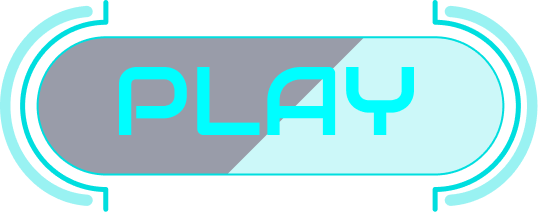
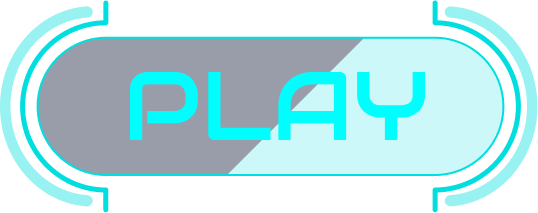
initial menu over and clicked states

diff --git a/game/containersMenu/containerInitial.ts b/game/containersMenu/containerInitial.ts
@@ -16,17 +16,43 @@ class containerInitial extends Phaser.GameObjects.Container {
         super(scene, config.x, config.y)
 
         const offsetY = 100
-        this.playButton = scene.add.image(this.width/2, this.height/2 + offsetY, "playButton")
-        this.playButton.setInteractive().on('pointerdown', () => {
+        this.playButton = scene.add.image(this.width / 2, this.height / 2 + offsetY, "playButton");
+        this.playButton.setInteractive();
+        this.playButton.on(Phaser.Input.Events.GAMEOBJECT_POINTER_OVER, () => {
+            this.playButton.setTexture('playButtonHover');
+        });
+        this.playButton.on(Phaser.Input.Events.GAMEOBJECT_POINTER_OUT, () => {
+            this.playButton.setTexture('playButton');
+        });
+        this.playButton.on('pointerdown', () => {
             if(config.panToPlay){
+                this.playButton.setTexture('playButtonPressed')
                 this.scene.cameras.main.pan(config.panToPlay.x, config.panToPlay.y, 1000, 'Expo', true)
             }
         })
+        this.playButton.on('pointerup', () => {
+            this.playButton.setTexture('playButtonHover')
+        })
+
         console.log(this.playButton.width, this.playButton.height, "PLAY BUTTON")
         this.creditsButton = scene.add.image(0, 0, "creditsButton")
         this.creditsButton.setPosition(this.width/2, this.playButton.y + this.creditsButton.height + this.playButton.height/2 + offsetY)
-        this.creditsButton.setInteractive().on('pointerdown', () => {
+
+        this.creditsButton.setInteractive();
+        this.creditsButton.on(Phaser.Input.Events.GAMEOBJECT_POINTER_OVER, () => {
+            this.creditsButton.setTexture('creditsButtonHover');
+        });
+        this.creditsButton.on(Phaser.Input.Events.GAMEOBJECT_POINTER_OUT, () => {
+            this.creditsButton.setTexture('creditsButton');
+        });
+        this.creditsButton.on('pointerup', () => {
+            this.creditsButton.setTexture('creditsButtonHover')
+        })
+
+
+        this.creditsButton.on('pointerdown', () => {
             if(config.panToCredits){
+                this.creditsButton.setTexture('creditsButtonPressed')
                 this.scene.cameras.main.pan(config.panToCredits.x, config.panToCredits.y, 1000, 'Expo', true)
             }
         })
@@ -35,11 +61,40 @@ class containerInitial extends Phaser.GameObjects.Container {
         this.gameTitle.setPosition(this.width/2, (this.playButton.y - this.playButton.height/2)/2)
 
         this.scoreButton = scene.add.image(0, 0, "scoreButton")
+        this.scoreButton.setInteractive()
         this.scoreButton.setPosition(this.scoreButton.width, this.scoreButton.height)
+
+        this.scoreButton.on(Phaser.Input.Events.GAMEOBJECT_POINTER_OVER, ()=>{
+            this.scoreButton.setTexture('scoreButtonHover')
+        })
+        
+        this.scoreButton.on(Phaser.Input.Events.GAMEOBJECT_POINTER_OUT, ()=>{
+            this.scoreButton.setTexture('scoreButton')
+        })
+        this.scoreButton.on("pointerdown", ()=>{
+            this.scoreButton.setTexture('scoreButtonPressed')
+        })
+        this.scoreButton.on("pointerup", ()=>{
+            this.scoreButton.setTexture('scoreButtonHover')
+        })
 
         this.settingsButton = scene.add.image(0, 0, "settingsButton")
         this.settingsButton.setPosition(this.width - this.settingsButton.width, this.settingsButton.height).setScrollFactor(1)
+        this.settingsButton.setInteractive()
+        this.settingsButton.on(Phaser.Input.Events.GAMEOBJECT_POINTER_OVER, ()=>{
+            this.settingsButton.setTexture('settingsButtonHover')
+        })
+        
+        this.settingsButton.on(Phaser.Input.Events.GAMEOBJECT_POINTER_OUT, ()=>{
+            this.settingsButton.setTexture('settingsButton')
+        })
 
+        this.settingsButton.on("pointerdown", ()=>{
+            this.settingsButton.setTexture('settingsButtonPressed')
+        })
+        this.settingsButton.on("pointerup", ()=>{
+            this.settingsButton.setTexture('settingsButtonHover')
+        })
         this.logoNoswar = scene.add.image(0, 0, "logoNoswar")
         this.logoNoswar.setPosition(this.width - this.logoNoswar.width, this.height - this.logoNoswar.height)
 

diff --git a/game/multiScenes/assetsLoader.ts b/game/multiScenes/assetsLoader.ts
@@ -36,11 +36,19 @@ const loadAssets = {
       ["image", "creditsTitle", "/menu/credits/creditsTitle.png"],
       // menu credits
       ["image", "creditsButton", "/menu/initial/creditsButton.png"],
+      ["image", "creditsButtonHover", "/menu/initial/creeditsButtonHover.png"],
+      ["image", "creditsButtonPressed", "/menu/initial/creditsButtonPressed.png"],
       ["image", "gameTitle", "/menu/initial/gameTitle.png"],
       ["image", "logoNoswar", "/menu/initial/logoNoswar.png"],
       ["image", "playButton", "/menu/initial/playButton.png"],
+      ["image", "playButtonHover", "/menu/initial/playButtonHover.png"],
+      ["image", "playButtonPressed", "/menu/initial/playButtonPressed.png"],
       ["image", "scoreButton", "/menu/initial/scoreButton.png"],
+      ["image", "scoreButtonHover", "/menu/initial/scoreButtonHover.png"],
+      ["image", "scoreButtonPressed", "/menu/initial/scoreButtonPressed.png"],
       ["image", "settingsButton", "/menu/initial/settingsButton.png"],
+      ["image", "settingsButtonHover", "/menu/initial/settingsButtonHover.png"],
+      ["image", "settingsButtonPressed", "/menu/initial/settingsButtonPressed.png"],
       // menu play
       ["image", "enterCodeButton", "/menu/play/enterCodeButton.png"],
       ["image", "newGameButton", "/menu/play/newGameButton.png"],

diff --git a/game/MultiScene.ts b/game/MultiScene.ts
@@ -34,9 +34,9 @@ export default class MultiScene extends Phaser.Scene {
         if(this.scenekey) {
           this.makeTransition(this.scenekey, this.sceneData ?? undefined);
         } else {
-          this.makeTransition("CinematographyMod", { keyname: "cine_2_movie_4", loadKey: ["Cinemato1", "Cinemato1","Cinemato3"] });
-          // this.makeTransition("Game", { level: 999, lifes: 3, loadKey: ["GamePlay1", "GamePlay2"] });
-          // this.makeTransition("MenuScene", undefined);
+          //this.makeTransition("CinematographyMod", { keyname: "cine_2_movie_4", loadKey: ["Cinemato1", "Cinemato1","Cinemato3"] });
+          //  this.makeTransition("Game", { level: 5, lifes: 3, loadKey: ["GamePlay1", "GamePlay2", "GamePlay3"] });
+           this.makeTransition("MenuScene", undefined);
         }
       });
   }

diff --git a/game/maps/planet2/Mapa4.ts b/game/maps/planet2/Mapa4.ts
@@ -106,8 +106,8 @@ class Mapa4 {
   backgroundsMiddle: Phaser.GameObjects.Image[];
   backgroundsFront: Phaser.GameObjects.Image[];
   originalPositionsBackgroundsBack: {x: number, y:number}[]
-originalPositionsBackgroundsMiddle: {x: number, y:number}[]
-originalPositionsBackgroundsFront: {x: number, y:number}[]
+  originalPositionsBackgroundsMiddle: {x: number, y:number}[]
+  originalPositionsBackgroundsFront: {x: number, y:number}[]
 
   cristal?: Floor;
   collected: Boolean = false;
